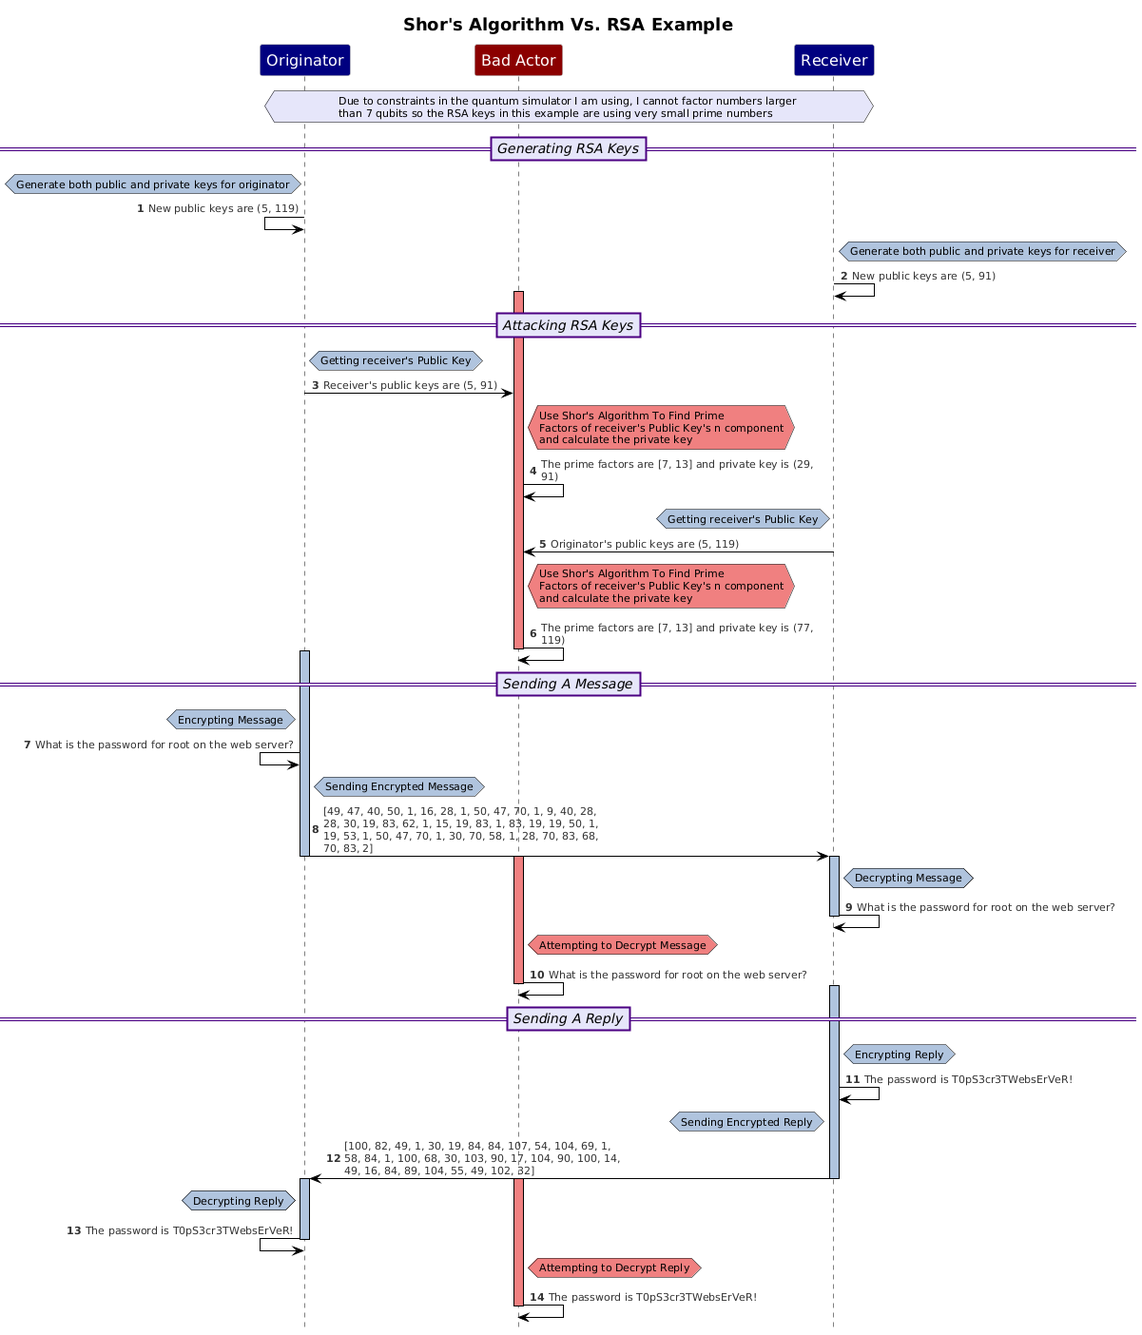
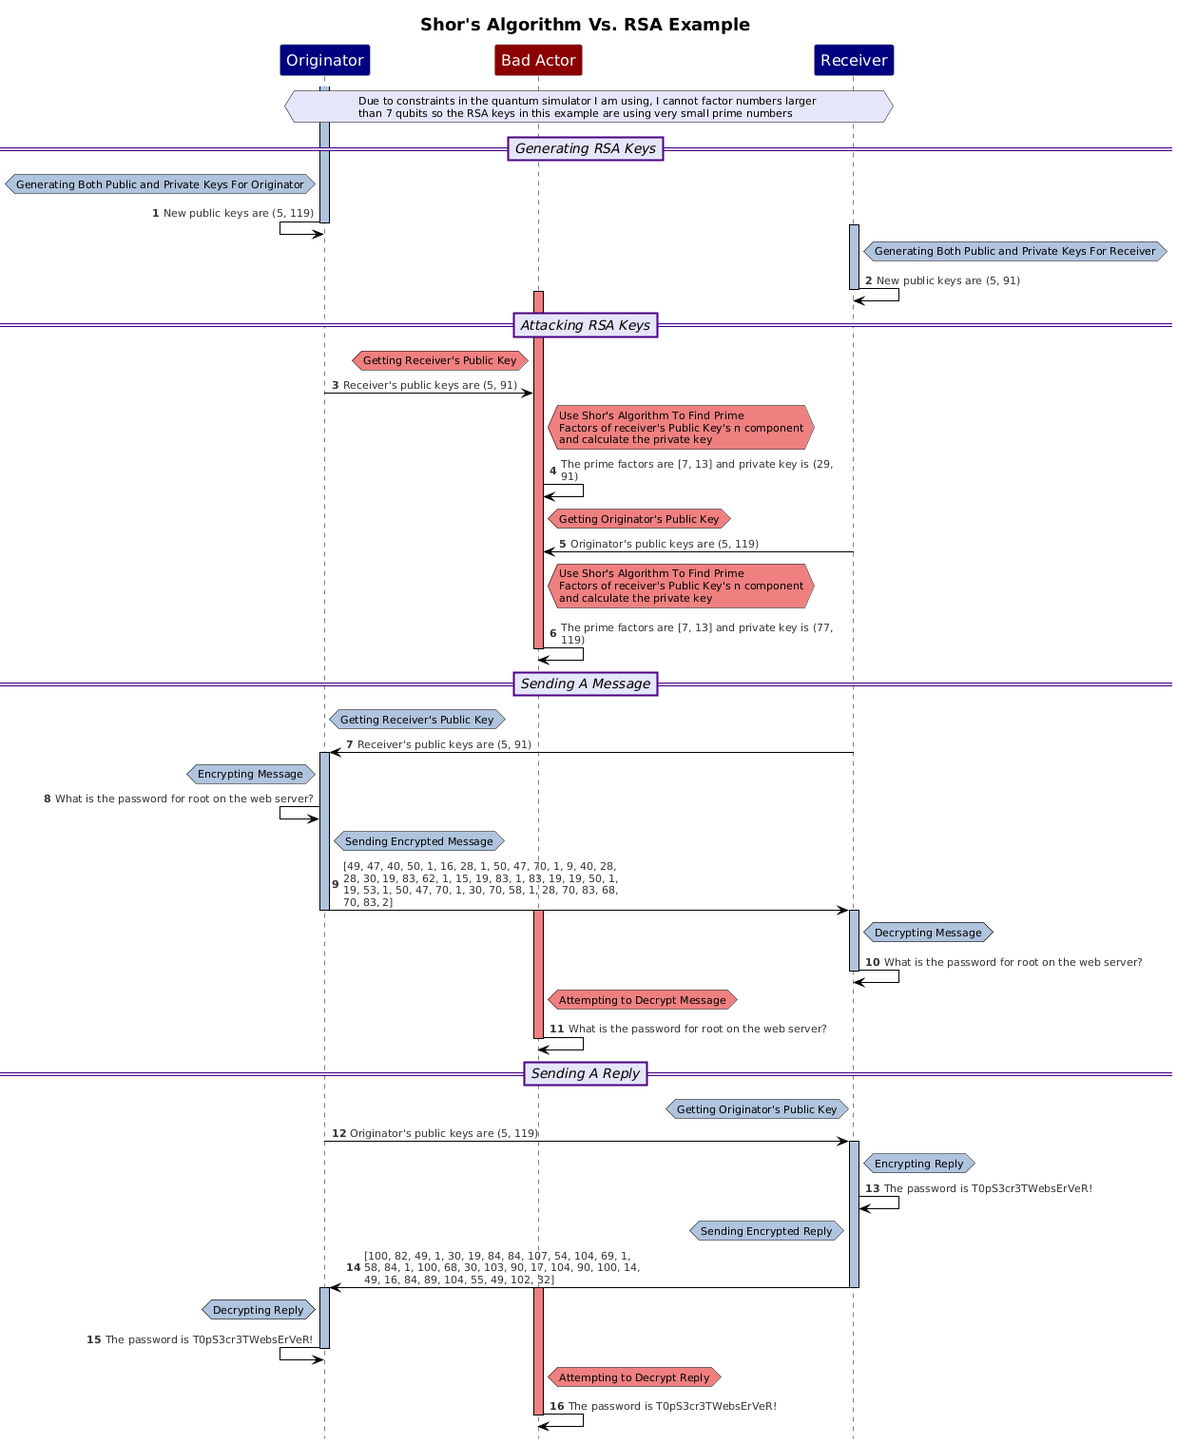
Updated diagrams for shors algorithm and basic rsa

diff --git a/GeneratingDiagrams/BasicSequenceDiagramSetup.py b/GeneratingDiagrams/BasicSequenceDiagramSetup.py
@@ -111,29 +111,38 @@ class BasicSequenceDiagramSetup():
         self.events[self.number_of_events] = event
         self.incrementEvents()
 
-    def activateParticipant(self, participant):
+    def activateParticipant(self, participant_input):
         '''
         This method activates a participant's lifeline
 
         Parameters :
-            participant : BasicParticipant
+            participant_input : BasicParticipant | int
                 The participant whose lifeline is being activated
         '''
-
+        if type(participant_input) == int:
+            participant = self.participants[participant_input]
+        else:
+            participant = participant_input
+        
         self.addEvent(BasicLifeline(participant,"Activate"))
 
-    def deactivateParticipant(self, participant):
+    def deactivateParticipant(self, participant_input):
         '''
         This method deactivates a participant's lifeline
 
         Parameters :
-            participant : BasicParticipant
+            participant_input : BasicParticipant | int
                 The participant whose lifeline is being deactivated
         '''
 
+        if type(participant_input) == int:
+            participant = self.participants[participant_input]
+        else:
+            participant = participant_input
+        
         self.addEvent(BasicLifeline(participant,"Deactivate"))
 
-    def sendALabeledMessage(self,start_participant, end_participant, message, note, direction = 1):
+    def sendALabeledMessage(self,start_participant_input, end_participant_input, message, note, direction = 1):
         '''
         This method sends a labeled message with a note
 
@@ -149,12 +158,54 @@ class BasicSequenceDiagramSetup():
             direction : int, optional
                 Whether the message is being sent in both directions or just 1, default is one
         '''
+        if type(start_participant_input) == int:
+            start_participant = self.participants[start_participant_input]
+        else:
+            start_participant = start_participant_input
+        if type(end_participant_input) == int:
+            end_participant = self.participants[end_participant_input]
+        else:
+            end_participant = end_participant_input 
 
         if start_participant.id < end_participant.id:
             note_position = "right of"
         else:
             note_position = "left of"
         self.addEvent(BasicNote(note_content=note, position=note_position,participant=start_participant))
+        self.addEvent(BasicCommunication(message=message,start_participant=start_participant,end_participant=end_participant,direction=direction))
+
+    def addALabeledRetrieval(self, start_participant_input, end_participant_input, message, note, direction = 1):
+        '''
+        This method shows a retrieval of some information initiated by the retrievor
+
+        Parameters :
+            start_participant : BasicParticipant
+                The index of the person sending the message
+            end_participant : BasicParticipant
+                The index of the intended recipient for the message
+            message : str
+                The message content to be sent
+            note : str
+                The label for the message being sent
+            direction : int, optional
+                Whether the message is being sent in both directions or just 1, default is one
+        '''
+
+        if type(start_participant_input) == int:
+            start_participant = self.participants[start_participant_input]
+        else:
+            start_participant = start_participant_input
+        if type(end_participant_input) == int:
+            end_participant = self.participants[end_participant_input]
+        else:
+            end_participant = end_participant_input 
+
+        if start_participant.id > end_participant.id:
+            note_position = "right of"
+        else:
+            note_position = "left of"
+        
+        self.addEvent(BasicNote(note_content=note, position=note_position, participant=end_participant))
         self.addEvent(BasicCommunication(message=message,start_participant=start_participant,end_participant=end_participant,direction=direction))
 
     def sendSelfMessage(self, participant, message, note, simultaneous_note = None, simultaneous_participant = None):
@@ -210,7 +261,7 @@ class BasicSequenceDiagramSetup():
         self.addEvent(BasicCommunication(message=message,start_participant=participant,end_participant=participant,direction=1))
 
 
-    def encryptSendAndDecryptMessage(self, start_participant_number, end_participant_number, message, encrypted_message, decrypted_message=None, message_label = "Message"):
+    def encryptSendAndDecryptMessage(self, start_participant_number, end_participant_number, message, encrypted_message, decrypted_message=None, message_label = "Message", deactivate_end = True, activate_start = True):
         '''
         This method setups up sending and receiving an encrypted message 
 
@@ -227,19 +278,23 @@ class BasicSequenceDiagramSetup():
                 The message content decrypted by the intended recipient, defaults to message
             message_label : str, optional
                 The label for the message, defaults to "Message"
+            activate_start : Boolean, optional
+                whether to activate the starting participant before begining, default is True
+            deactivate_end : Boolean, optional
+                whether to deactivate the ending participant at completion, default is True
         '''
         
         start_participant = self.participants[start_participant_number]
         end_participant = self.participants[end_participant_number]
-        self.activateParticipant(participant=start_participant)
+        if activate_start: self.activateParticipant(participant_input=start_participant)
         self.sendSelfMessage(participant=start_participant,message=message,note=f"Encrypting {message_label}")
-        self.sendALabeledMessage(start_participant=start_participant,end_participant=end_participant,message=encrypted_message, note=f"Sending Encrypted {message_label}")
-        self.deactivateParticipant(participant=start_participant)
-        self.activateParticipant(participant=end_participant)
-        self.sendSelfMessage(participant=start_participant,message=(decrypted_message if decrypted_message != None else message),note="Decrypting Message")
-        self.deactivateParticipant(participant=end_participant)
+        self.sendALabeledMessage(start_participant_input=start_participant,end_participant_input=end_participant,message=encrypted_message, note=f"Sending Encrypted {message_label}")
+        self.deactivateParticipant(participant_input=start_participant)
+        self.activateParticipant(participant_input=end_participant)
+        self.sendSelfMessage(participant=end_participant,message=(decrypted_message if decrypted_message != None else message),note="Decrypting Message")
+        if deactivate_end: self.deactivateParticipant(participant_input=end_participant)
 
-    def encryptSendAndDecryptMessageIntercepted(self, start_participant_number, end_participant_number, message, encrypted_message, intercepting_participent_number, intercepted_message=None, intercepted_note="Attempting to Decrypt Message", decrypted_message=None, message_label = "Message"):
+    def encryptSendAndDecryptMessageIntercepted(self, start_participant_number, end_participant_number, message, encrypted_message, intercepting_participent_number, intercepted_message=None, intercepted_note="Attempting to Decrypt Message", decrypted_message=None, message_label = "Message", deactivate_end = True, activate_start = True):
         '''
         This method setups up sending an encrypted message which is intercepted
 
@@ -262,21 +317,25 @@ class BasicSequenceDiagramSetup():
                 The message content decrypted by the intended recipient, defaults to message
             message_label : str, optional
                 The label for the message, defaults to "Message"
+            activate_start : Boolean, optional
+                whether to activate the starting participant before begining, default is True
+            deactivate_end : Boolean, optional
+                whether to deactivate the ending participant at completion, default is True
         '''
         
         start_participant = self.participants[start_participant_number]
         end_participant = self.participants[end_participant_number]
         intercepting_participant = self.participants[intercepting_participent_number]
-        self.activateParticipant(participant=start_participant)
+        if activate_start: self.activateParticipant(participant_input=start_participant)
         self.sendSelfMessage(participant=start_participant,message=message,note=f"Encrypting {message_label}")
-        self.sendALabeledMessage(start_participant=start_participant,end_participant=end_participant,message=encrypted_message, note=f"Sending Encrypted {message_label}")
-        self.deactivateParticipant(participant=start_participant)
-        self.activateParticipant(participant=end_participant)
-        self.activateParticipant(participant=intercepting_participant)
+        self.sendALabeledMessage(start_participant_input=start_participant,end_participant_input=end_participant,message=encrypted_message, note=f"Sending Encrypted {message_label}")
+        self.deactivateParticipant(participant_input=start_participant)
+        self.activateParticipant(participant_input=end_participant)
+        self.activateParticipant(participant_input=intercepting_participant)
         self.sendSelfMessage(participant=end_participant,message=(decrypted_message if decrypted_message != None else message),note=f"Decrypting {message_label}",simultaneous_note=f"Intercepted {message_label}",simultaneous_participant=intercepting_participant)
-        self.deactivateParticipant(participant=end_participant)
+        self.deactivateParticipant(participant_input=end_participant)
         self.sendSelfMessage(participant=intercepting_participant,message=(intercepted_message if intercepted_message != None else message),note=intercepted_note)
-        self.deactivateParticipant(participant=intercepting_participant)
+        if deactivate_end: self.deactivateParticipant(participant_input=intercepting_participant)
 
     def initializeParticipants(self,number_of_participants=2,list_of_names=None):
         '''

diff --git a/GeneratingDiagrams/BadActorMethodologiesDiagramGenerators/ShorsAlgorithmVsRSADiagram.py b/GeneratingDiagrams/BadActorMethodologiesDiagramGenerators/ShorsAlgorithmVsRSADiagram.py
@@ -3,7 +3,50 @@ from BadActorMethodologies.ShorsAlgorithmVsRSA import badActor_RSA
 from GeneratingDiagrams.BasicSequenceDiagramSetup import BasicSequenceDiagramSetup
 
 
-def runBadActorAgainstRSAScheme():
+def runBadActorAgainstRSASchemeAndGenerateDiagrams():
+    '''
+    This function runs a very simple example of utilizing the Shor's Algorithm for prime factorisation to duplicate RSA private keys based on the public key
+    
+    Note: The example is constrained by the number of qubit available for input in the quantum simulator
+    (in this case 7, so the largest number it can factor is 127)
+    '''
+
+    originator_rsa, recipient_rsa, message, encrypted_message, decrypted_message, reply, encrypted_reply, decrypted_reply, bad_actor, prime_factors, decoded_message_stolen_key, bad_actor_originator, decoded_reply_stolen_key = runScenario()
+    
+    rsa_sequence = BasicSequenceDiagramSetup("Shor's Algorithm Vs. RSA Example")
+    constructSequence(originator_rsa, recipient_rsa, message, encrypted_message, decrypted_message, reply, encrypted_reply, decrypted_reply, bad_actor, prime_factors, decoded_message_stolen_key, bad_actor_originator, decoded_reply_stolen_key, rsa_sequence)
+    
+    rsa_sequence.printAllDiagrams()
+
+def constructSequence(originator_rsa:RSACryptographyScheme, recipient_rsa:RSACryptographyScheme, message, encrypted_message, decrypted_message, reply, encrypted_reply, decrypted_reply, bad_actor, prime_factors, decoded_message_stolen_key, bad_actor_originator, decoded_reply_stolen_key, rsa_sequence:BasicSequenceDiagramSetup):
+    '''
+    This function constructs the sequence for the Shor's algorithm vs. RSA scenario
+    '''
+    
+    rsa_sequence.initializeParticipants(3)
+    rsa_sequence.addBannerNote("Due to constraints in the quantum simulator I am using, I cannot factor numbers larger \\nthan 7 qubits so the RSA keys in this example are using very small prime numbers")
+    rsa_sequence.addDivider("Generating RSA Keys")
+    rsa_sequence.activateParticipant(0)
+    rsa_sequence.sendSelfMessage_particpantNumber(0,f"New public keys are {originator_rsa.getPublicKey()}","Generating Both Public and Private Keys For Originator")
+    rsa_sequence.deactivateParticipant(0)
+    rsa_sequence.activateParticipant(2)
+    rsa_sequence.sendSelfMessage_particpantNumber(2,f"New public keys are {recipient_rsa.getPublicKey()}","Generating Both Public and Private Keys For Receiver")
+    rsa_sequence.deactivateParticipant(2)
+    rsa_sequence.addDivider("Attacking RSA Keys")
+    rsa_sequence.activateParticipant(rsa_sequence.participants[1])
+    rsa_sequence.addALabeledRetrieval(rsa_sequence.participants[0],rsa_sequence.participants[1],message=f"Receiver's public keys are {recipient_rsa.getPublicKey()}",note="Getting Receiver's Public Key")
+    rsa_sequence.sendSelfMessage_particpantNumber(1,f"The prime factors are {prime_factors} and private key is {bad_actor.duplicate_target_crypto_scheme.getPrivateKey()}","Use Shor's Algorithm To Find Prime\\nFactors of receiver's Public Key's n component\\nand calculate the private key")
+    rsa_sequence.addALabeledRetrieval(rsa_sequence.participants[2],rsa_sequence.participants[1],message=f"Originator's public keys are {originator_rsa.getPublicKey()}",note="Getting Originator's Public Key")
+    rsa_sequence.sendSelfMessage_particpantNumber(1,f"The prime factors are {prime_factors} and private key is {bad_actor_originator.duplicate_target_crypto_scheme.getPrivateKey()}","Use Shor's Algorithm To Find Prime\\nFactors of receiver's Public Key's n component\\nand calculate the private key")
+    rsa_sequence.deactivateParticipant(rsa_sequence.participants[1])
+    rsa_sequence.addDivider("Sending A Message")
+    rsa_sequence.addALabeledRetrieval(2,0,message=f"Receiver's public keys are {recipient_rsa.getPublicKey()}",note="Getting Receiver's Public Key")
+    rsa_sequence.encryptSendAndDecryptMessageIntercepted(0,2,message=message,encrypted_message=encrypted_message,intercepting_participent_number=1,intercepted_message=decoded_message_stolen_key,decrypted_message=decrypted_message)
+    rsa_sequence.addDivider("Sending A Reply")
+    rsa_sequence.addALabeledRetrieval(0,2,message=f"Originator's public keys are {originator_rsa.getPublicKey()}",note="Getting Originator's Public Key")
+    rsa_sequence.encryptSendAndDecryptMessageIntercepted(2,0,message=reply,encrypted_message=encrypted_reply,intercepting_participent_number=1,intercepted_message=decoded_reply_stolen_key,decrypted_message=decrypted_reply,message_label="Reply",intercepted_note="Attempting to Decrypt Reply")
+
+def runScenario():
     '''
     This function runs a very simple example of utilizing the Shor's Algorithm for prime factorisation to duplicate RSA private keys based on the public key
     
@@ -30,27 +73,8 @@ def runBadActorAgainstRSAScheme():
     decoded_message_stolen_key = bad_actor.decryptMessageForTarget(encrypted_message)
     bad_actor_originator = badActor_RSA(originator_rsa.getPublicKey())
     decoded_reply_stolen_key = bad_actor_originator.decryptMessageForTarget(encrypted_reply)
-    
-    rsa_sequence = BasicSequenceDiagramSetup("Shor's Algorithm Vs. RSA Example")
-    rsa_sequence.initializeParticipants(3)
-    rsa_sequence.addBannerNote("Due to constraints in the quantum simulator I am using, I cannot factor numbers larger \\nthan 7 qubits so the RSA keys in this example are using very small prime numbers")
-    rsa_sequence.addDivider("Generating RSA Keys")
-    rsa_sequence.sendSelfMessage_particpantNumber(0,f"New public keys are {originator_rsa.getPublicKey()}","Generate both public and private keys for originator")
-    rsa_sequence.sendSelfMessage_particpantNumber(2,f"New public keys are {recipient_rsa.getPublicKey()}","Generate both public and private keys for receiver")
-    rsa_sequence.addDivider("Attacking RSA Keys")
-    rsa_sequence.activateParticipant(rsa_sequence.participants[1])
-    rsa_sequence.sendALabeledMessage(rsa_sequence.participants[0],rsa_sequence.participants[1],message=f"Receiver's public keys are {recipient_rsa.getPublicKey()}",note="Getting receiver's Public Key")
-    rsa_sequence.sendSelfMessage_particpantNumber(1,f"The prime factors are {prime_factors} and private key is {bad_actor.duplicate_target_crypto_scheme.getPrivateKey()}","Use Shor's Algorithm To Find Prime\\nFactors of receiver's Public Key's n component\\nand calculate the private key")
-    rsa_sequence.sendALabeledMessage(rsa_sequence.participants[2],rsa_sequence.participants[1],message=f"Originator's public keys are {originator_rsa.getPublicKey()}",note="Getting receiver's Public Key")
-    rsa_sequence.sendSelfMessage_particpantNumber(1,f"The prime factors are {prime_factors} and private key is {bad_actor_originator.duplicate_target_crypto_scheme.getPrivateKey()}","Use Shor's Algorithm To Find Prime\\nFactors of receiver's Public Key's n component\\nand calculate the private key")
-    rsa_sequence.deactivateParticipant(rsa_sequence.participants[1])
-    rsa_sequence.addDivider("Sending A Message")
-    rsa_sequence.encryptSendAndDecryptMessageIntercepted(0,2,message=message,encrypted_message=encrypted_message,intercepting_participent_number=1,intercepted_message=decoded_message_stolen_key,decrypted_message=decrypted_message)
-    rsa_sequence.addDivider("Sending A Reply")
-    rsa_sequence.encryptSendAndDecryptMessageIntercepted(2,0,message=reply,encrypted_message=encrypted_reply,intercepting_participent_number=1,intercepted_message=decoded_reply_stolen_key,decrypted_message=decrypted_reply,message_label="Reply",intercepted_note="Attempting to Decrypt Reply")
-    
-    rsa_sequence.printAllDiagrams()
+    return originator_rsa,recipient_rsa,message,encrypted_message,decrypted_message,reply,encrypted_reply,decrypted_reply,bad_actor,prime_factors,decoded_message_stolen_key,bad_actor_originator,decoded_reply_stolen_key
 
 if __name__ == '__main__':
 
-    runBadActorAgainstRSAScheme()
+    runBadActorAgainstRSASchemeAndGenerateDiagrams()

diff --git a/GeneratingDiagrams/CryptographySchemeDiagramGenerators/RSACryptographySchemeSequenceDiagram.py b/GeneratingDiagrams/CryptographySchemeDiagramGenerators/RSACryptographySchemeSequenceDiagram.py
@@ -1,8 +1,11 @@
 from CryptographySchemes.RSACryptographyScheme import RSACryptographyScheme
 from GeneratingDiagrams.BasicSequenceDiagramSetup import BasicSequenceDiagramSetup
 
-if __name__ == '__main__':
 
+def runBasicRSAScenario():
+    '''
+    This function runs a basic scenario using the RSA cryptography scheme
+    '''
     smaller_initial_prime = 1096341613
     larger_initial_prime = 4587343829
     originator_rsa = RSACryptographyScheme(smaller_initial_prime, larger_initial_prime, block_size=5)
@@ -11,31 +14,39 @@ if __name__ == '__main__':
     larger_second_prime = 8300694107
     recipient_rsa = RSACryptographyScheme(smaller_second_prime, larger_second_prime)
     
-    message = "Hello. How are you?"
+    message = "What is the password for root on the web server?"
     encrypted_message = recipient_rsa.rsaEncoding(message=message)
     decrypted_message = recipient_rsa.rsaDecoding(encrypted_message)
-    reply = "Hi! I am doing well, thanks."
+    reply = "The password is T0pS3cr3TWebsErVeR!"
     encrypted_reply = originator_rsa.rsaEncoding(message=reply)
     decrypted_reply = originator_rsa.rsaDecoding(encrypted_reply)
+    return originator_rsa,recipient_rsa,message,encrypted_message,decrypted_message,reply,encrypted_reply,decrypted_reply
 
-    reply = "Hi! I am doing well, thanks."
-    participants = ["Originator","Receiver"]
-    messages = [("Divider","Generating RSA Keys"),
-                ("Note","Generate both public and private keys for originator","left of",0),("Message",0,0,f"New public keys are {originator_rsa.getPublicKey()}"),
-                ("Note","Generate both public and private keys for receiver","right of",1),("Message",1,1,f"New public keys are {recipient_rsa.getPublicKey()}"),
-                ("Divider","Sending Message"), ("Lifeline",0,"Activate"),
-                ("Note","Getting Recipient's Public Key","right of",0),("Message",1,0,f"Receiver's public keys are {recipient_rsa.getPublicKey()}"),
-                ("Note","Encrypting Message With Receiver's Public Keys","left of",0),("Message",0,0,message),
-                ("Note","Transmitting Message","right of",0),("Message",0,1,encrypted_message),
-                ("Lifeline",0,"Deactivate"), ("Lifeline",1,"Activate"),
-                ("Note","Decrypting Message With Receiver's Private Keys","right of",1),("Message",1,1,decrypted_message),
-                ("Divider","Replying"),
-                ("Note","Getting Originator's Public Key","left of",1),("Message",0,1,f"Originator's public keys are {originator_rsa.getPublicKey()}"),
-                ("Note","Encrypting Reply With Originator's Public Keys","right of",1),("Message",1,1,reply),
-                ("Note","Transmitting Message","left of",1),("Message",1,0,encrypted_reply),
-                ("Lifeline",1,"Deactivate"), ("Lifeline",0,"Activate"),
-                ("Note","Decrypting Message With Originator's Private Keys","left of",0),("Message",0,0,decrypted_reply),
-                ]
+def setupSequenceDiagram(originator_rsa:RSACryptographyScheme, recipient_rsa:RSACryptographyScheme, message, encrypted_message, decrypted_message, reply, encrypted_reply, decrypted_reply, rsa_sequence:BasicSequenceDiagramSetup):
+    '''
+    This function sets up the sequence diagram for the basic scenario using RSA
+    '''
     
-    rsa_sequence = BasicSequenceDiagramSetup("RSA Cryptography Scheme Example",participants_list=participants,messages_list=messages)
+    rsa_sequence.initializeParticipants()
+    rsa_sequence.addDivider("Generating RSA Keys")
+    rsa_sequence.activateParticipant(rsa_sequence.participants[0])
+    rsa_sequence.sendSelfMessage_particpantNumber(0,f"New public keys are {originator_rsa.getPublicKey()}","Generating Both Public and Private Keys For Originator")
+    rsa_sequence.deactivateParticipant(rsa_sequence.participants[0])
+    rsa_sequence.activateParticipant(rsa_sequence.participants[1])
+    rsa_sequence.sendSelfMessage_particpantNumber(1,f"New public keys are {recipient_rsa.getPublicKey()}","Generating Both Public and Private Keys For Receiver")
+    rsa_sequence.deactivateParticipant(rsa_sequence.participants[1])
+    rsa_sequence.addDivider("Sending A Message")
+    rsa_sequence.addALabeledRetrieval(1,0,message=f"Receiver's public keys are {recipient_rsa.getPublicKey()}",note="Getting Receiver's Public Key")
+    rsa_sequence.encryptSendAndDecryptMessage(0,1,message=message,encrypted_message=encrypted_message,decrypted_message=decrypted_message, deactivate_end=False)
+    rsa_sequence.addDivider("Sending A Reply")
+    rsa_sequence.addALabeledRetrieval(0,1,message=f"Originator's public keys are {originator_rsa.getPublicKey()}",note="Getting Originator's Public Key")
+    rsa_sequence.encryptSendAndDecryptMessage(1,0,message=reply,encrypted_message=encrypted_reply,decrypted_message=decrypted_reply,message_label="Reply",activate_start=False)
+
+if __name__ == '__main__':
+
+    originator_rsa, recipient_rsa, message, encrypted_message, decrypted_message, reply, encrypted_reply, decrypted_reply = runBasicRSAScenario()
+
+    rsa_sequence = BasicSequenceDiagramSetup("RSA Cryptography Scheme Example")
+    setupSequenceDiagram(originator_rsa, recipient_rsa, message, encrypted_message, decrypted_message, reply, encrypted_reply, decrypted_reply, rsa_sequence)
+    
     rsa_sequence.printAllDiagrams()
